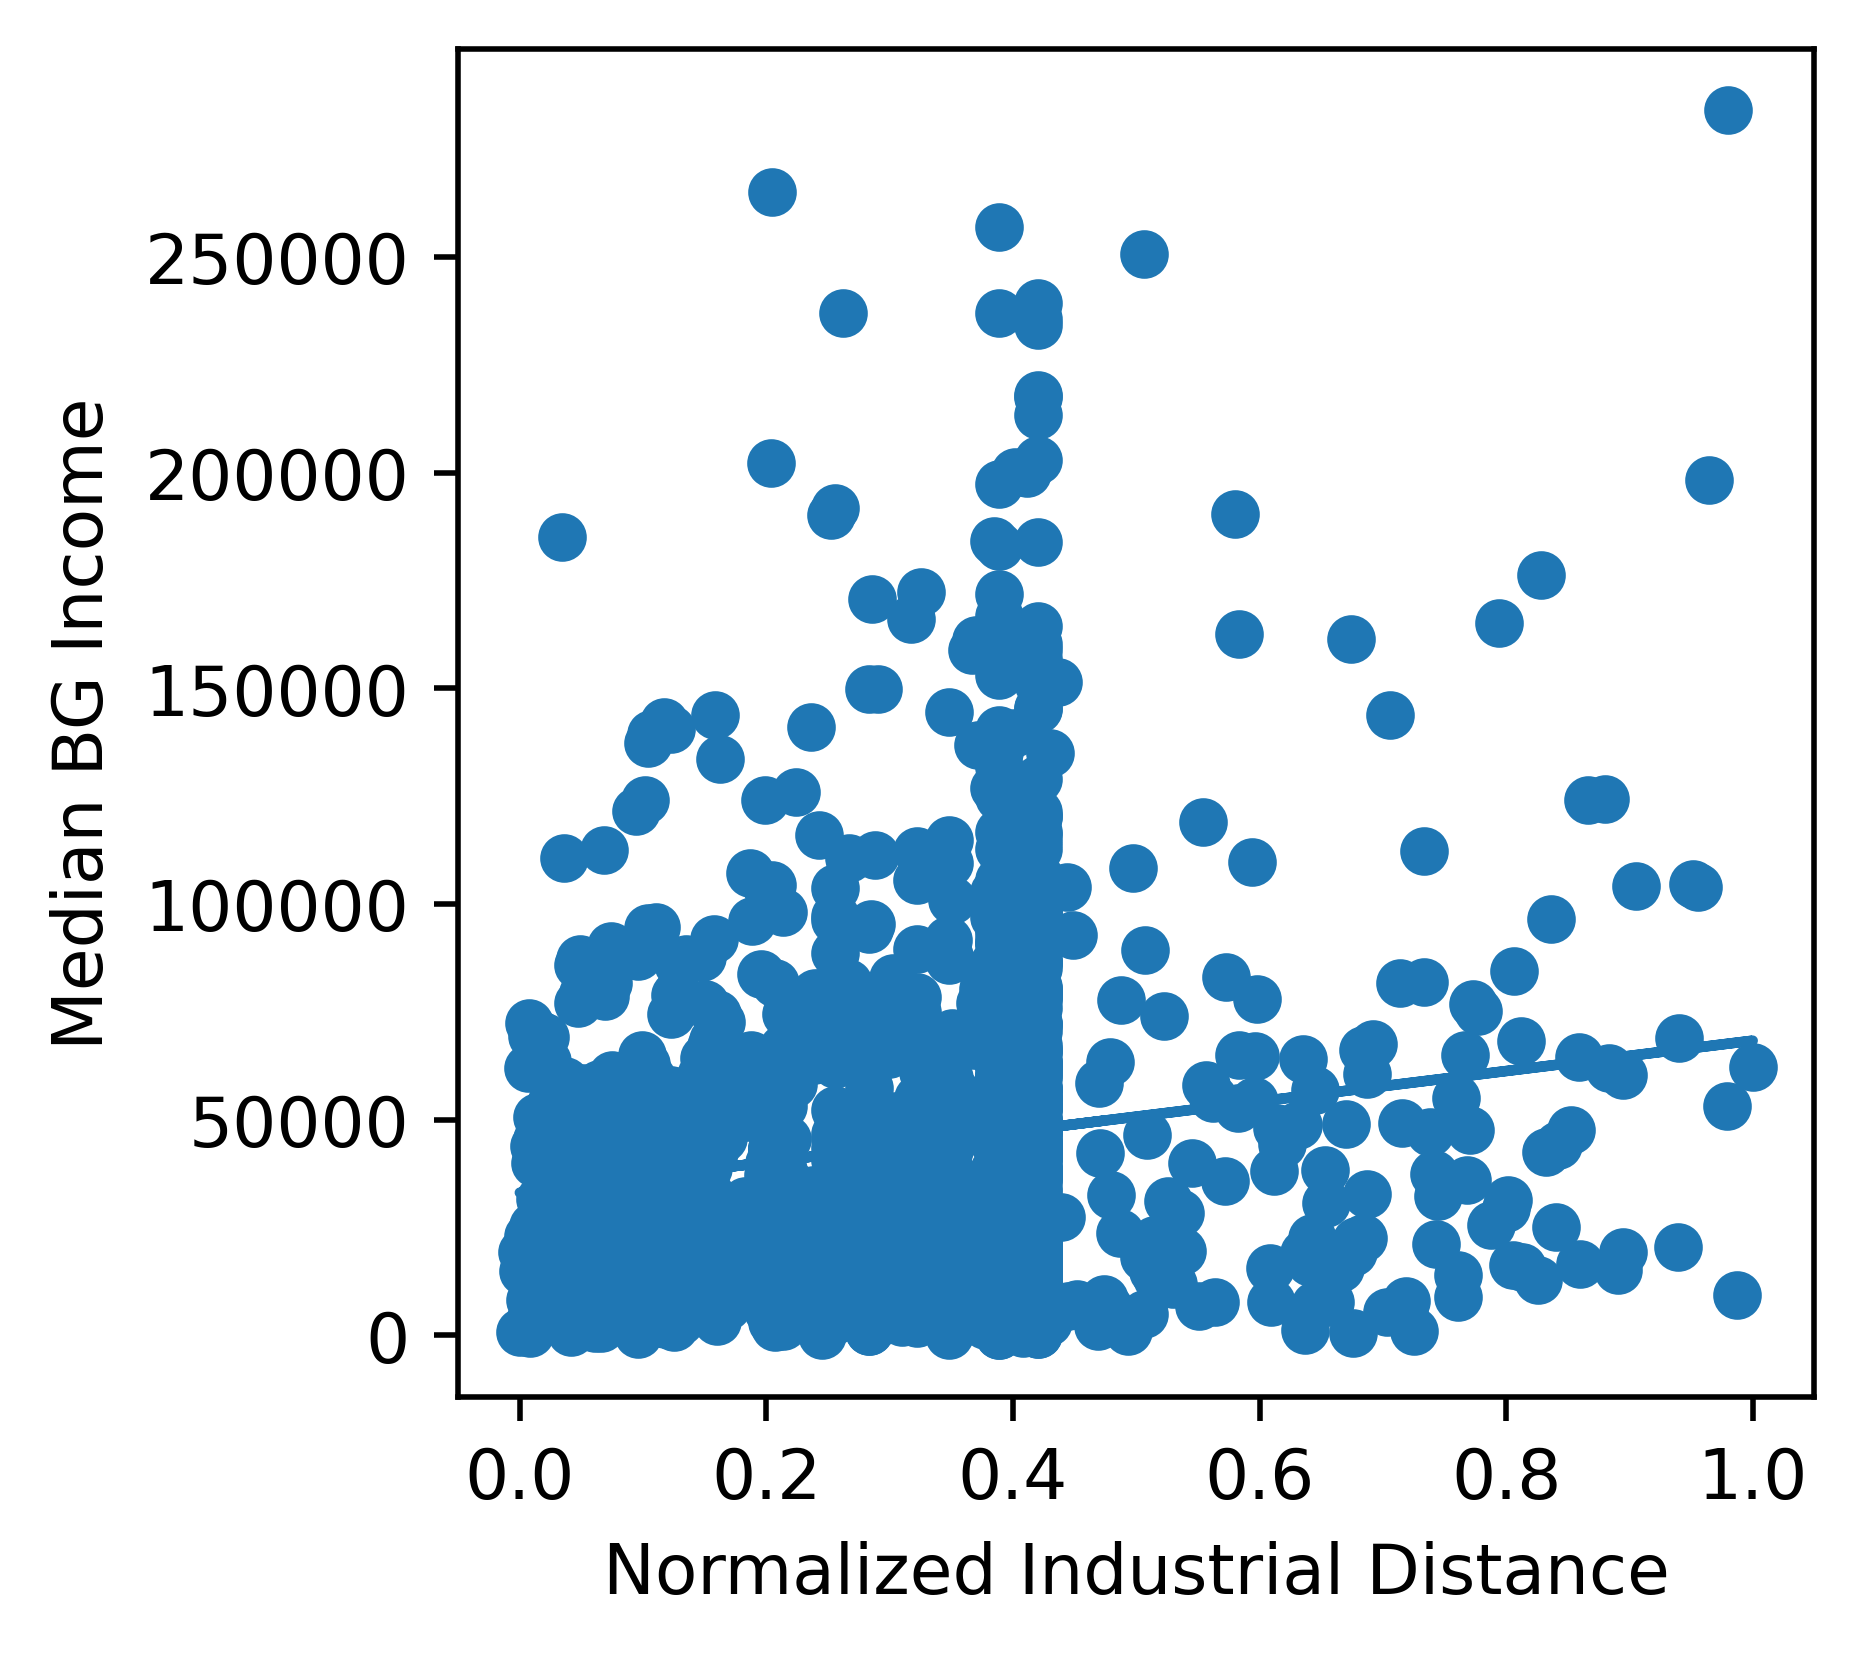
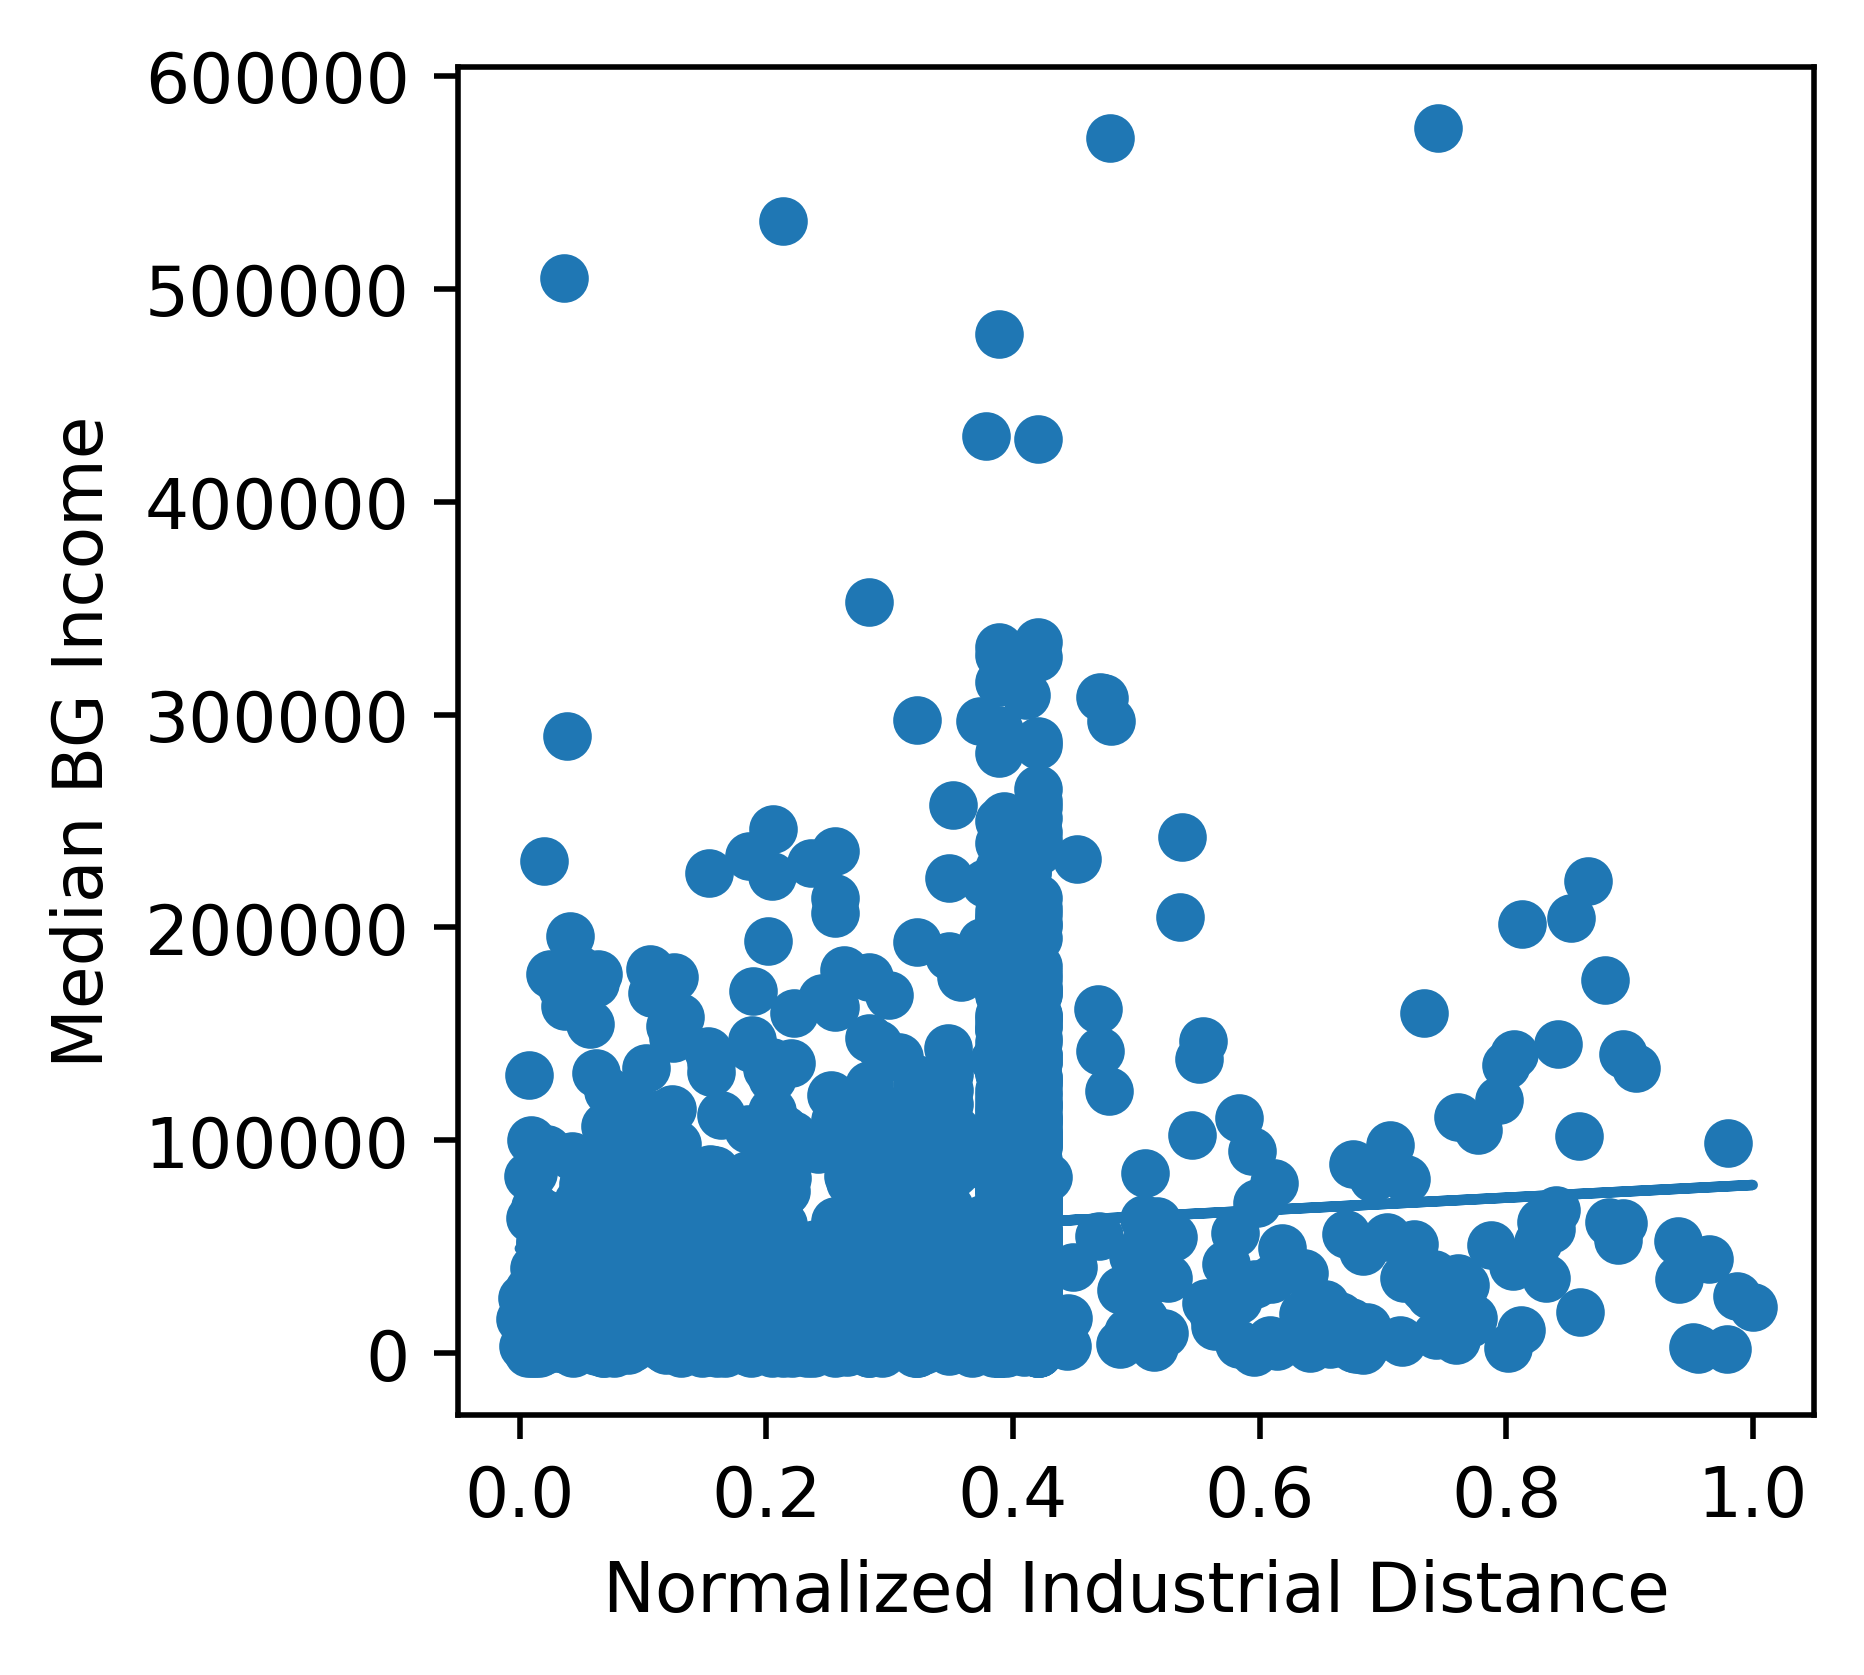
finished income distribution

diff --git a/income_dist.py b/income_dist.py
@@ -1,24 +1,23 @@
-import random
 import numpy as np
 import scipy.stats as stats
 import matplotlib.pyplot as plt
 
 
 data = {
-    0: 7.6,
-    10000: 11.9,
-    15000: 13.3,
-    25000: 14.6,
-    35000: 12.3,
-    50000: 14.3,
-    75000: 9.3,
-    100000: 11.1,
-    150000: 2.6,
-    200000: 3
+    0: 76,
+    10000: 119,
+    15000: 133,
+    25000: 146,
+    35000: 123,
+    50000: 143,
+    75000: 93,
+    100000: 111,
+    150000: 26,
+    200000: 30
 }
 
 
-def bootstrap(n, data, b):
+def bootstrap(data, b):
     '''
     Method to bootstrap data
 
@@ -29,44 +28,65 @@ def bootstrap(n, data, b):
     b (int):
         number of sets to draw
     '''
-
+    rng = np.random.default_rng(seed=218)
+    n = sum(list(data.values()))
+    print(n)
     output = np.empty((b, n))
     for i in range(b):
-        bootstrap = np.array(
-            random.choices(list(data.keys()), weights=list(data.values()), k=n)
-        )
+        bootstrap = np.empty(n)
+        index = 0
+        for j, key in enumerate(data):
+            '''
+            Get a set of samples for the given income range that is 100
+            times longer than the percentage given by the data.
+            e.g. for $0 - $10,000, we want 76 samples uniformly distributed
+            between 0 and 10000.
+            '''
+            if j != (len(data) - 1):
+                bootstrap[index:(index + data[key])] = rng.uniform(
+                    list(data.keys())[j], list(data.keys())[j+1],
+                    size=data[key]
+                )
+            else:
+                # at the end we need to arbitrarily set an upper bound
+                bootstrap[index:(index + data[key])] = rng.uniform(
+                    list(data.keys())[j], list(data.keys())[j]*3,
+                    size=data[key]
+                )
+            index += data[key]
+
         output[i, :] = bootstrap
 
     return output
 
 
-b_arr = bootstrap(10, data, 1000)
+b_arr = bootstrap(data, 10000)
 # bootstrap = np.array(random.choices(list(data.keys()), weights=list(data.values()), k=10000))
-mean_b = np.mean(b_arr, axis=1)
+mean_b = np.mean(b_arr)
 med_b = np.median(b_arr, axis=1)
 up_b = np.percentile(b_arr, 90, axis=1)
-var_b = np.var(b_arr, axis=1, ddof=1)
-print(f"mean = {np.mean(mean_b)}")
-print(f"var = {np.mean(var_b)}")
+var_b = np.var(b_arr, ddof=1)
+print(f"mean = {(mean_b)}")
+print(f"var = {(var_b)}")
 print(f"90th percentile: {np.percentile(up_b, 90)}")
 print(f"50th percentile: {np.percentile(med_b, 50)}")
 
 a = mean_b**2/var_b
 b = var_b/mean_b
 
-print(f"random gamma value: {random.gammavariate(a, b)}")
+print(f"median from gamma: {np.median(stats.gamma.rvs(a, scale=b, size=1000))}")
 
 fig, ax = plt.subplots(1, 1)
-x = np.linspace(stats.gamma.ppf(0.001, a, scale=1/b),
-                stats.gamma.ppf(0.999, a, scale=1/b), 100)
+x = np.linspace(stats.gamma.ppf(0.001, a, scale=b),
+                stats.gamma.ppf(0.999, a, scale=b), 100)
 
-ax.plot(x, stats.gamma.pdf(x, a, scale=1/b),
+ax.plot(x, stats.gamma.pdf(x, a, scale=b),
         'r-', lw=5, alpha=0.6, label='gamma pdf')
 
-rv = stats.gamma(a, scale=1/b)
+rv = stats.gamma(a, scale=b)
 ax.plot(x, rv.pdf(x), 'k-', lw=2, label='frozen pdf')
 
-r = stats.gamma.rvs(a, scale=1/b, size=1000)
+r = stats.gamma.rvs(a, scale=b, size=1000)
 ax.hist(r, density=True, bins='auto', histtype='stepfilled', alpha=0.2)
 ax.set_xlim([x[0], x[-1]])
 

diff --git a/agent_model.py b/agent_model.py
@@ -418,8 +418,8 @@ class Household:
         scaling_factor = (28250.19550039 + 28711.81795579 * node_dist) / 38880
         # pick an income from the gamma distribution trained with clinton
         # income ranges
-        mean = 46801.0
-        var = 1961837582.7582757
+        mean = 61628.09180717512
+        var = 5671494492.817419
 
         a = mean**2/var
         b = var/mean
